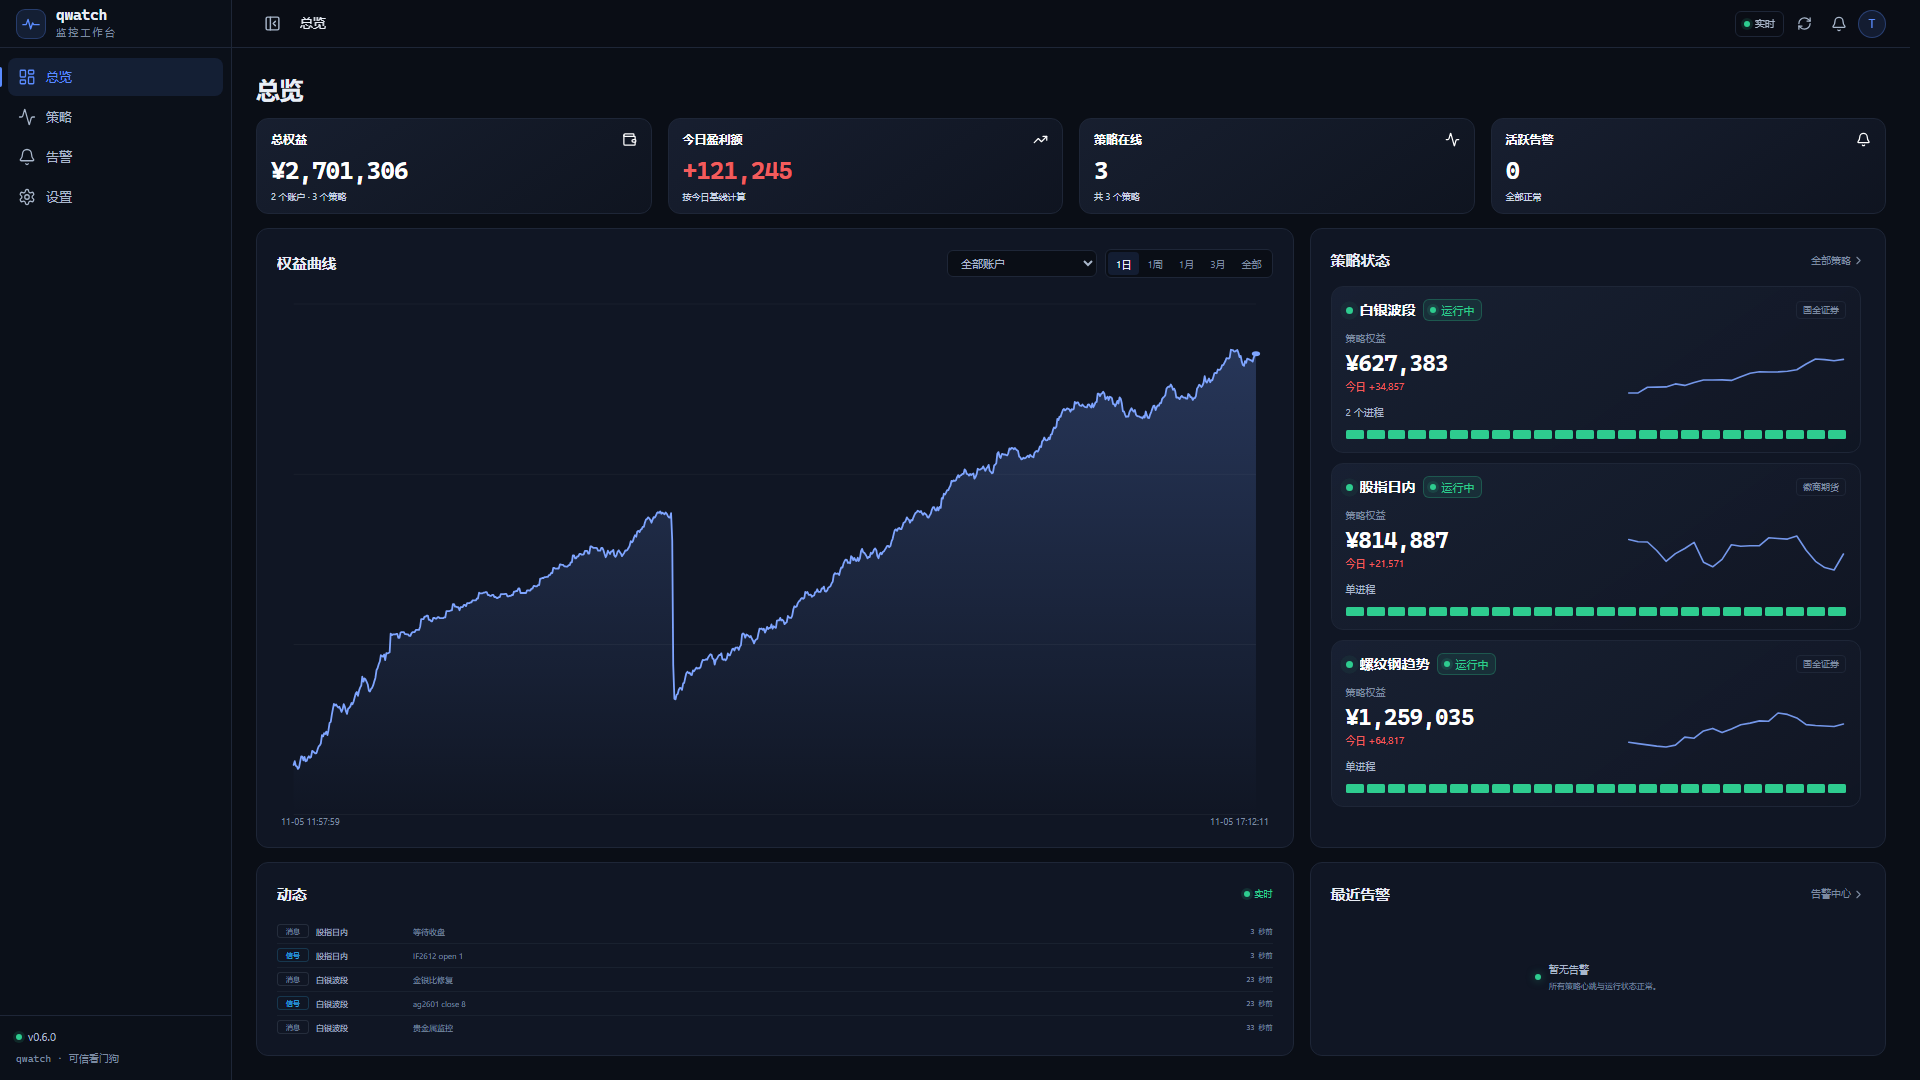
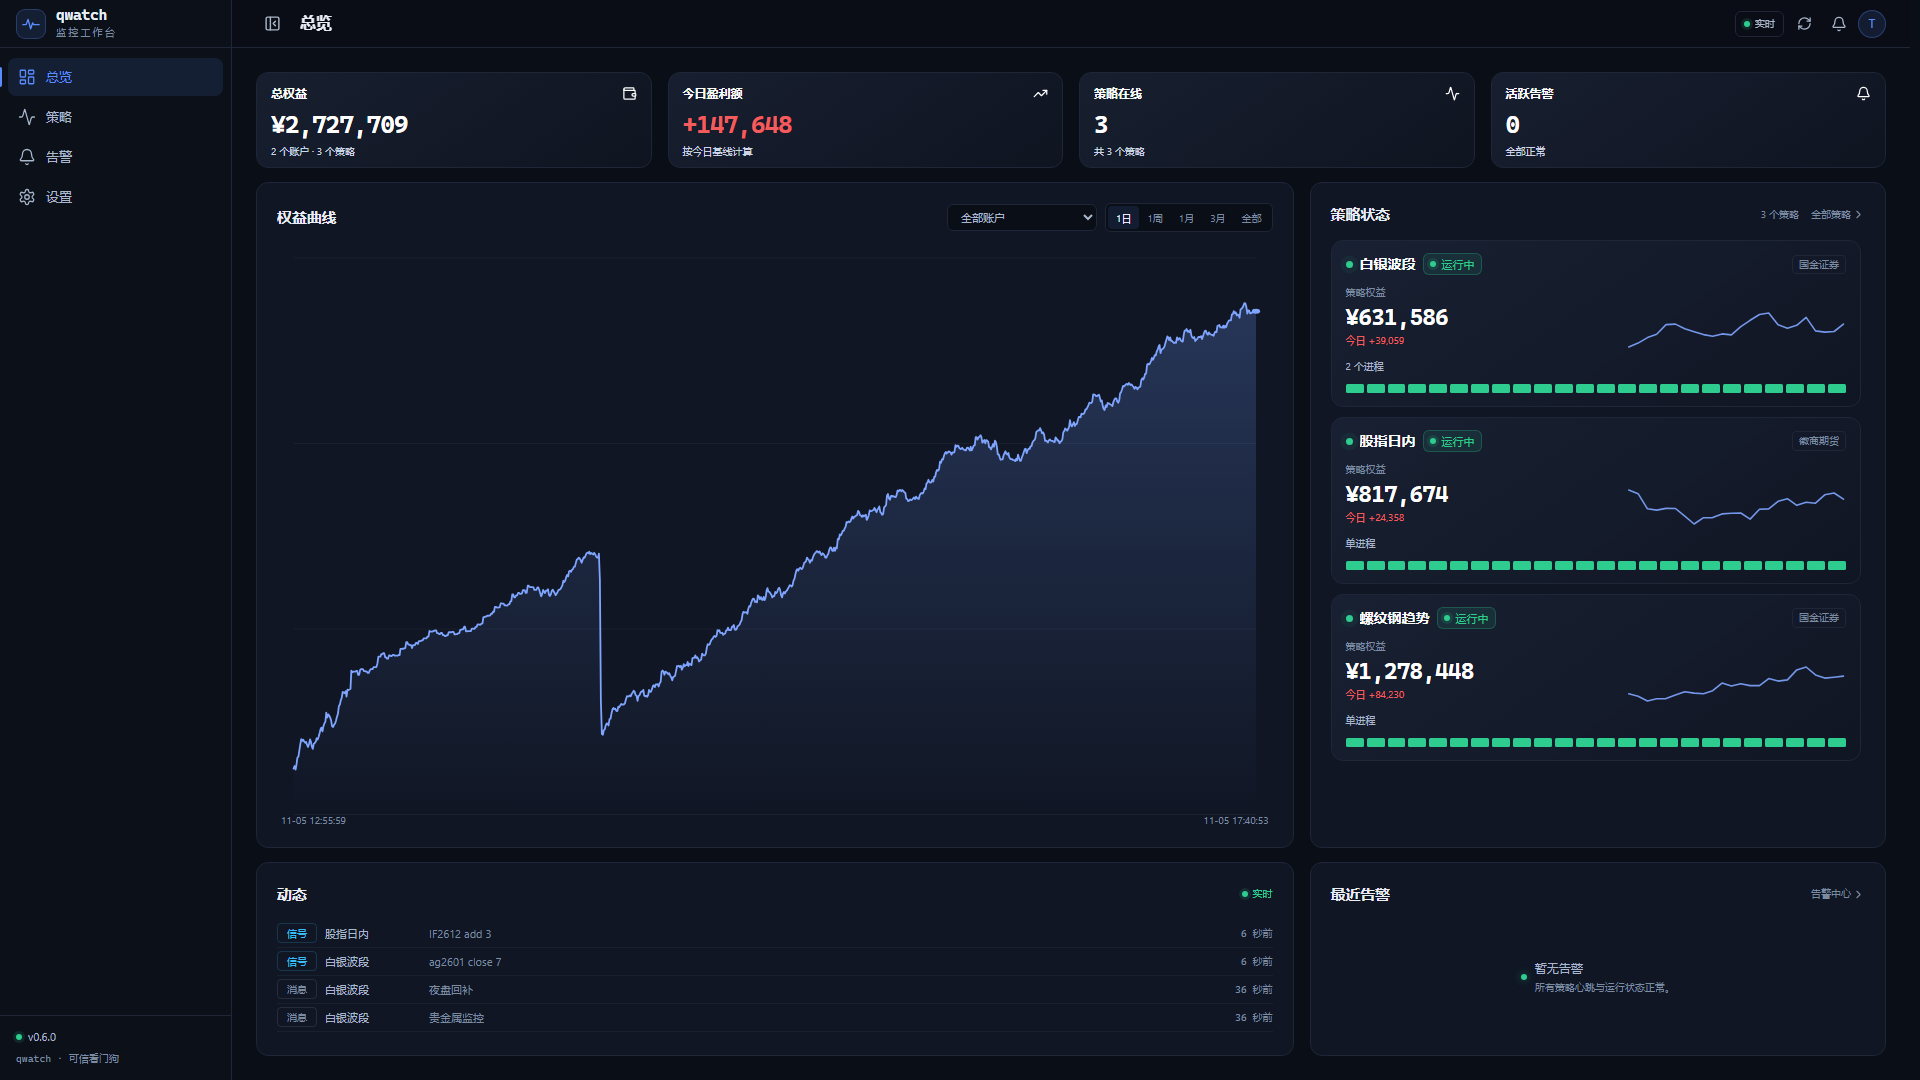
style: unify page titles, typography scale and overview spacing

diff --git a/frontend/src/views/Overview.vue b/frontend/src/views/Overview.vue
@@ -13,7 +13,6 @@ import EmptyState from '@/components/EmptyState.vue';
 import GroupCard from '@/components/GroupCard.vue';
 import NavChart from '@/components/NavChart.vue';
 import NavSparkline from '@/components/NavSparkline.vue';
-import PageHeader from '@/components/PageHeader.vue';
 import SectionCard from '@/components/SectionCard.vue';
 import StatusDot from '@/components/StatusDot.vue';
 
@@ -157,8 +156,6 @@ onBeforeUnmount(() => {
 
 <template>
   <div class="page overview-page">
-    <PageHeader title="总览" />
-
     <div v-if="loading && !data" class="skeleton-page">
       <div class="summary-grid">
         <div v-for="i in 4" :key="i" class="skel skel-card" style="height: 104px" />
@@ -220,7 +217,7 @@ onBeforeUnmount(() => {
         </SectionCard>
 
         <SectionCard title="策略状态">
-          <template #extra><router-link to="/strategies" class="link-more">全部策略 <ChevronRight :size="13" /></router-link></template>
+          <template #extra><span class="status-count">{{ sortedRunners.length }} 个策略</span><router-link to="/strategies" class="link-more">全部策略 <ChevronRight :size="13" /></router-link></template>
           <div v-if="sortedRunners.length" class="strategy-column">
             <GroupCard v-for="runner in sortedRunners" :key="runner.id" :runner="runner" />
           </div>
@@ -268,7 +265,7 @@ onBeforeUnmount(() => {
 .ov-kpi-value.up { color: var(--up); }
 .ov-kpi-value.down { color: var(--down); }
 .ov-kpi-value.danger, .danger { color: var(--danger); }
-.ov-kpi-foot { margin-top: auto; padding-top: 5px; color: #cbd5e5; font-size: 9px; }
+.ov-kpi-foot { margin-top: auto; padding-top: 5px; color: #cbd5e5; font-size: 10px; }
 .ov-kpi.link:hover { border-color: var(--border-strong); }
 .up { color: var(--up) !important; }
 .down { color: var(--down) !important; }
@@ -292,37 +289,38 @@ onBeforeUnmount(() => {
 .strategy-column::-webkit-scrollbar { width: 5px; }
 .strategy-column::-webkit-scrollbar-thumb { background: #2b3a55; border-radius: 999px; }
 .strategy-column::-webkit-scrollbar-track { background: transparent; }
+.status-count { margin-right: 4px; color: var(--text-3); font-size: 10px; }
 .link-more { display: inline-flex; align-items: center; gap: 1px; color: var(--text-3); font-size: 10px; }
 .link-more:hover { color: var(--text-2); }
 
-.overview-lower { flex: none; height: clamp(150px, 18vh, 230px); display: grid; grid-template-columns: minmax(0, 1.8fr) minmax(280px, 1fr); gap: var(--gap); min-height: 0; }
+.overview-lower { flex: none; height: clamp(120px, 18vh, 230px); display: grid; grid-template-columns: minmax(0, 1.8fr) minmax(280px, 1fr); gap: var(--gap); min-height: 0; }
 .overview-lower > :deep(.section-card) { height: 100%; min-height: 0; }
 .ov-activity-scroll { flex: 1; min-height: 0; overflow-y: auto; overscroll-behavior: contain; scrollbar-width: thin; scrollbar-color: #2b3a55 transparent; }
 .ov-activity-scroll::-webkit-scrollbar { width: 5px; }
 .ov-activity-scroll::-webkit-scrollbar-thumb { background: #2b3a55; border-radius: 999px; }
-.ov-event { display: grid; grid-template-columns: 32px 90px minmax(0, 1fr) auto; align-items: center; gap: 7px; width: 100%; min-height: 24px; padding: 3px 0; border: 0; border-bottom: 1px solid rgba(125, 139, 161, 0.09); background: transparent; color: inherit; text-align: left; cursor: pointer; }
+.ov-event { display: grid; grid-template-columns: 40px 96px minmax(0, 1fr) auto; align-items: center; gap: 8px; width: 100%; height: 28px; padding: 3px 0; overflow: hidden; border: 0; border-bottom: 1px solid rgba(125, 139, 161, 0.09); background: transparent; color: inherit; text-align: left; cursor: pointer; }
 .ov-event:last-child { border-bottom: 0; }
 .ov-event:hover { background: rgba(255, 255, 255, 0.018); }
-.ov-event-type { padding: 1px 4px; border: 1px solid rgba(56, 189, 248, 0.2); border-radius: 3px; color: #38bdf8; font-size: 7px; text-align: center; }
+.ov-event-type { padding: 2px 5px; border: 1px solid rgba(56, 189, 248, 0.2); border-radius: 4px; color: #38bdf8; font-size: 10px; text-align: center; }
 .ov-event-type.message { border-color: rgba(125, 139, 161, 0.2); color: var(--text-3); }
-.ov-event strong { color: var(--text-2); font-size: 8px; font-weight: 500; white-space: nowrap; overflow: hidden; text-overflow: ellipsis; }
-.ov-event-text { color: var(--text-3); font-size: 8px; white-space: nowrap; overflow: hidden; text-overflow: ellipsis; }
-.ov-event time { color: var(--text-3); font: 7px var(--font-mono); white-space: nowrap; }
+.ov-event strong { color: var(--text-2); font-size: 11px; font-weight: 500; white-space: nowrap; overflow: hidden; text-overflow: ellipsis; }
+.ov-event-text { color: var(--text-3); font-size: 11px; white-space: nowrap; overflow: hidden; text-overflow: ellipsis; }
+.ov-event time { color: var(--text-3); font: 10px var(--font-mono); white-space: nowrap; }
 .ov-alert-scroll { flex: 1; min-height: 0; overflow-y: auto; scrollbar-width: thin; scrollbar-color: #2b3a55 transparent; }
-.ov-alert { display: grid; grid-template-columns: 5px minmax(0, 1fr) auto; gap: 7px; align-items: start; padding: 5px 0; border-bottom: 1px solid rgba(125, 139, 161, 0.09); color: inherit; }
+.ov-alert { display: grid; grid-template-columns: 5px minmax(0, 1fr) auto; gap: 8px; align-items: start; padding: 6px 0; border-bottom: 1px solid rgba(125, 139, 161, 0.09); color: inherit; }
 .ov-alert:last-child { border-bottom: 0; }
 .ov-alert-dot { width: 5px; height: 5px; margin-top: 4px; border-radius: 50%; background: #f25c5c; }
 .ov-alert-dot.resolved { background: var(--down); }
 .ov-alert div { display: flex; flex-direction: column; gap: 1px; min-width: 0; }
-.ov-alert strong { color: var(--text-2); font-size: 8px; font-weight: 500; }
-.ov-alert span { color: var(--text-3); font-size: 8px; white-space: nowrap; overflow: hidden; text-overflow: ellipsis; }
-.ov-alert em { color: #f47c74; font: 7px var(--font-mono); font-style: normal; white-space: nowrap; }
+.ov-alert strong { color: var(--text-2); font-size: 11px; font-weight: 500; }
+.ov-alert span { color: var(--text-3); font-size: 10px; white-space: nowrap; overflow: hidden; text-overflow: ellipsis; }
+.ov-alert em { color: #f47c74; font: 10px var(--font-mono); font-style: normal; white-space: nowrap; }
 .alert-empty { flex: 1; min-height: 0; display: flex; align-items: center; justify-content: center; gap: 8px; text-align: left; }
 .alert-empty .ok { width: 6px; height: 6px; flex: none; border-radius: 50%; background: var(--down); box-shadow: 0 0 8px rgba(46, 204, 143, 0.5); }
 .alert-empty div { display: flex; flex-direction: column; gap: 2px; }
-.alert-empty strong { color: var(--text-2); font-size: 10px; font-weight: 500; }
-.alert-empty span { color: var(--text-3); font-size: 8px; }
-.live-hint { display: inline-flex; align-items: center; gap: 5px; color: var(--text-3); font-size: 9px; }
+.alert-empty strong { color: var(--text-2); font-size: 12px; font-weight: 500; }
+.alert-empty span { color: var(--text-3); font-size: 10px; }
+.live-hint { display: inline-flex; align-items: center; gap: 5px; color: var(--text-3); font-size: 10px; }
 .live-hint.live { color: var(--down); }
 
 @media (max-height: 820px) {
@@ -330,13 +328,13 @@ onBeforeUnmount(() => {
   .overview-page > .summary-grid { height: 80px; }
   .ov-kpi { padding: 8px 12px; }
   .ov-kpi-value { margin-top: 5px; font-size: 22px; }
-  .ov-kpi-foot { font-size: 8px; }
-  .overview-lower { height: 90px; }
+  .ov-kpi-foot { font-size: 10px; }
+  .overview-lower { height: 110px; }
   .overview-lower :deep(.section-card) { padding: 10px 13px; }
   .overview-lower :deep(.panel-head) { margin-bottom: 4px; }
-  .ov-event { min-height: 21px; padding: 2px 0; }
-  .ov-alert { padding: 4px 0; }
-  .alert-empty strong { font-size: 10px; }
+  .ov-event { height: 26px; padding: 2px 0; }
+  .ov-alert { padding: 5px 0; }
+  .alert-empty strong { font-size: 11px; }
 }
 @media (max-width: 1100px) {
   .summary-grid { grid-template-columns: repeat(2, minmax(0, 1fr)); }

diff --git a/frontend/src/views/Strategies.vue b/frontend/src/views/Strategies.vue
@@ -12,7 +12,6 @@ import { useSettingsStore } from '@/stores/settings';
 import EmptyState from '@/components/EmptyState.vue';
 import GroupCard from '@/components/GroupCard.vue';
 import NavSparkline from '@/components/NavSparkline.vue';
-import PageHeader from '@/components/PageHeader.vue';
 import StrategyCreateModal from '@/components/StrategyCreateModal.vue';
 import StrategyGrid from '@/components/StrategyGrid.vue';
 
@@ -128,15 +127,6 @@ onBeforeUnmount(() => {
 
 <template>
   <div class="page">
-    <PageHeader title="策略">
-      <template #extra>
-        <n-button type="primary" size="small" @click="createOpen = true">
-          <template #icon><Plus :size="14" /></template>
-          新建策略
-        </n-button>
-      </template>
-    </PageHeader>
-
     <section class="card toolbar">
       <div class="toolbar-left">
         <n-input v-model:value="keyword" clearable placeholder="搜索策略名 / 标识 / 账户" class="search" size="small">
@@ -147,6 +137,10 @@ onBeforeUnmount(() => {
       <div class="toolbar-right">
         <span class="result mono">{{ matchedRunners.length }} / {{ runners.length }}</span>
         <button v-if="hasFilter" type="button" class="reset" @click="resetFilters">重置筛选</button>
+        <n-button type="primary" size="small" @click="createOpen = true">
+          <template #icon><Plus :size="14" /></template>
+          新建策略
+        </n-button>
       </div>
     </section>
 

diff --git a/frontend/src/views/StrategyDetail.vue b/frontend/src/views/StrategyDetail.vue
@@ -290,9 +290,9 @@ onBeforeUnmount(() => {
 .inline-link { color: var(--text-3); font-size: 10px; }
 .alert-line { display: flex; align-items: center; gap: 8px; padding: 8px 0; border-bottom: 1px solid var(--border); color: inherit; }
 .alert-line:last-child { border-bottom: 0; }
-.rule-chip { flex: 0 0 auto; padding: 2px 5px; border: 1px solid rgba(240, 68, 56, 0.25); border-radius: 4px; color: #f47c74; font-size: 9px; }
+.rule-chip { flex: 0 0 auto; padding: 2px 5px; border: 1px solid rgba(240, 68, 56, 0.25); border-radius: 4px; color: #f47c74; font-size: 10px; }
 .alert-text { min-width: 0; flex: 1; overflow: hidden; text-overflow: ellipsis; white-space: nowrap; color: var(--text-2); font-size: 10px; }
-.alert-status { font-size: 9px; color: var(--text-3); white-space: nowrap; }
+.alert-status { font-size: 10px; color: var(--text-3); white-space: nowrap; }
 .live-hint { display: inline-flex; align-items: center; gap: 5px; color: var(--text-3); font-size: 10px; }
 .live-hint.live { color: var(--down); }
 .activity-card { display: flex; flex-direction: column; min-height: 430px; padding: 16px 18px; }

diff --git a/frontend/src/views/Alerts.vue b/frontend/src/views/Alerts.vue
@@ -9,8 +9,6 @@ import { useSettingsStore } from '@/stores/settings';
 import { ruleLabel } from '@/utils/catalog';
 import { fmtDateTime, fromNow } from '@/utils/format';
 import EmptyState from '@/components/EmptyState.vue';
-import PageHeader from '@/components/PageHeader.vue';
-import StatusDot from '@/components/StatusDot.vue';
 import TabBar from '@/components/TabBar.vue';
 import type { TabItem } from '@/components/TabBar.vue';
 
@@ -108,15 +106,6 @@ onBeforeUnmount(() => {
 
 <template>
   <div class="page">
-    <PageHeader title="告警">
-      <template #extra>
-        <span class="live-hint" :class="{ live: realtime.live }">
-          <StatusDot :status="realtime.live ? 'running' : 'warn'" :size="6" />
-          {{ realtime.live ? '实时' : '轮询' }}
-        </span>
-      </template>
-    </PageHeader>
-
     <div v-if="error" class="error-bar">
       <span class="dot" />{{ error }}
       <n-button text size="tiny" @click="load(true)">重试</n-button>

diff --git a/frontend/src/components/GroupCard.vue b/frontend/src/components/GroupCard.vue
@@ -84,7 +84,7 @@ function goDetail(): void {
 .group-card:focus-visible { outline: 2px solid var(--primary); outline-offset: 2px; }
 .card-head { display: flex; align-items: center; justify-content: space-between; gap: 8px; }
 .head-right { display: inline-flex; align-items: center; gap: 7px; min-width: 0; }
-.account-chip { max-width: 120px; overflow: hidden; text-overflow: ellipsis; white-space: nowrap; padding: 1px 6px; border: 1px solid var(--border); border-radius: 4px; color: var(--text-3); font-size: 9px; }
+.account-chip { max-width: 120px; overflow: hidden; text-overflow: ellipsis; white-space: nowrap; padding: 1px 6px; border: 1px solid var(--border); border-radius: 4px; color: var(--text-3); font-size: 10px; }
 .identity { display: flex; align-items: center; gap: 7px; min-width: 0; }
 .name { font-size: 14px; font-weight: 600; color: #ffffff; }
 .issue { display: inline-flex; align-items: center; gap: 3px; color: #f5b64b; font-size: 10px; white-space: nowrap; }

diff --git a/frontend/src/views/Settings.vue b/frontend/src/views/Settings.vue
@@ -8,7 +8,6 @@ import { useSettingsStore } from '@/stores/settings';
 import { fmtDateTime } from '@/utils/format';
 import ChannelEditModal from '@/components/ChannelEditModal.vue';
 import EmptyState from '@/components/EmptyState.vue';
-import PageHeader from '@/components/PageHeader.vue';
 
 const store = useSettingsStore();
 const message = useMessage();
@@ -69,8 +68,6 @@ onMounted(() => {
 
 <template>
   <div class="page">
-    <PageHeader title="设置" />
-
     <div v-if="loading" class="page">
       <div class="skel" style="height: 48px; border-radius: 10px" />
       <div class="skel" style="height: 320px; border-radius: 12px" />

diff --git a/frontend/src/layouts/AppShell.vue b/frontend/src/layouts/AppShell.vue
@@ -403,8 +403,8 @@ onBeforeUnmount(() => {
 .crumbs {
   display: flex;
   align-items: center;
-  gap: 6px;
-  font-size: 13px;
+  gap: 7px;
+  font-size: 16px;
   min-width: 0;
 }
 .crumb {
@@ -419,7 +419,7 @@ onBeforeUnmount(() => {
 }
 .current {
   color: var(--text);
-  font-weight: 500;
+  font-weight: 600;
   white-space: nowrap;
   overflow: hidden;
   text-overflow: ellipsis;
@@ -457,7 +457,7 @@ onBeforeUnmount(() => {
   border: 2px solid var(--bg);
   color: #fff;
   font-family: var(--font-mono);
-  font-size: 9px;
+  font-size: 10px;
   line-height: 1;
 }
 .spinning {

diff --git a/frontend/src/styles/tokens.css b/frontend/src/styles/tokens.css
@@ -27,6 +27,16 @@
   --font-sans: "Segoe UI", "Microsoft YaHei UI", "Microsoft YaHei", "PingFang SC", "Hiragino Sans GB", system-ui, -apple-system, sans-serif;
   --font-mono: "JetBrains Mono", "Cascadia Mono", Consolas, "SFMono-Regular", "Microsoft YaHei UI", "Microsoft YaHei", "PingFang SC", monospace;
 
+  --fs-10: 10px;
+  --fs-11: 11px;
+  --fs-12: 12px;
+  --fs-13: 13px;
+  --fs-14: 14px;
+  --fs-16: 16px;
+  --fs-18: 18px;
+  --fs-20: 20px;
+  --fs-24: 24px;
+  --fs-28: 28px;
   --radius-card: 12px;
   --radius-lg: 12px;
   --radius-btn: 8px;

diff --git a/frontend/src/components/NavChart.vue b/frontend/src/components/NavChart.vue
@@ -147,7 +147,7 @@ onBeforeUnmount(() => { resizeObserver?.disconnect(); });
   bottom: -2px;
   display: flex;
   justify-content: space-between;
-  font-size: 9px;
+  font-size: 10px;
   color: var(--text-3);
   pointer-events: none;
 }
@@ -167,7 +167,7 @@ onBeforeUnmount(() => { resizeObserver?.disconnect(); });
   white-space: nowrap;
 }
 .tip-time {
-  font-size: 9px;
+  font-size: 10px;
   color: var(--text-3);
 }
 .tip-value {

diff --git a/frontend/src/components/ActivityFeed.vue b/frontend/src/components/ActivityFeed.vue
@@ -122,7 +122,7 @@ const emit = defineEmits<{ select: [event: RunnerEvent] }>();
   display: flex;
   align-items: center;
   gap: 7px;
-  font-size: 9px;
+  font-size: 10px;
   color: var(--text-3);
 }
 .type-label {

diff --git a/docs/UI-TYPOGRAPHY.md b/docs/UI-TYPOGRAPHY.md
@@ -1,0 +1,43 @@
+# qwatch 字体与排版规范
+
+> 目标：统一层级，避免「标题很大、正文很小」的割裂感。所有页面、卡片、列表共用同一套字号。
+
+## 字号阶梯
+
+| Token | 字号 | 用途 |
+|---|---:|---|
+| `--fs-10` | 10px | 图表时间轴、极小状态角标；正文不再使用 |
+| `--fs-11` | 11px | 列表辅助信息、时间、卡片脚注 |
+| `--fs-12` | 12px | 次级正文、表单标签、表头 |
+| `--fs-13` | 13px | 正文、列表主文案、按钮 |
+| `--fs-14` | 14px | 卡片标题、Tab 当前项 |
+| `--fs-16` | 16px | 顶栏页面标题、区块主标题 |
+| `--fs-18` | 18px | 强调数字、详情页小标题 |
+| `--fs-20` | 20px | 中号金额、账户名 |
+| `--fs-24` | 24px | KPI 主数字 |
+| `--fs-28` | 28px | 大屏/重点 KPI |
+
+## 使用规则
+
+1. **正文最低 11px**，仅图表坐标、极少数角标允许 10px。
+2. 同一层级内不混用 8/9/10/11 多个字号；列表辅助信息统一 11px。
+3. 数值统一使用等宽字体，标题和正文使用无衬线字体。
+4. 页面标题只出现一次：顶栏面包屑就是页面标题；内容区不再重复大标题。
+5. 卡片标题 14px，卡片内辅助信息 11px，主金额 20–28px。
+6. 行高：正文 1.5，紧凑列表 1.35，KPI 数字 1.1。
+7. 不为塞内容把字号降到 10px 以下；优先减少信息或让面板内部滚动。
+
+## 当前落点
+
+- 顶栏页面标题：16px / 600
+- KPI 标签：12px；主数字：25px；脚注：10px
+- 动态列表：正文 11px；时间 10px；类型标签 10px
+- 告警列表：策略名 11px；摘要 10px；状态 10px
+- 策略卡片：名称 14px；辅助信息 11px；权益 23px；今日 11px
+- 详情页 / 账户页标题保留 24px
+
+## 禁止
+
+- 用 8px、9px 作为常规正文
+- 同一个列表里字号忽大忽小
+- 为了一屏硬压字号；优先滚动、折叠或减少次要信息

diff --git a/README.md b/README.md
@@ -154,3 +154,7 @@ python -m compileall -q backend sdk sim
 ## License
 
 Apache-2.0
+
+## 设计规范
+
+- [字体与排版规范](docs/UI-TYPOGRAPHY.md)
